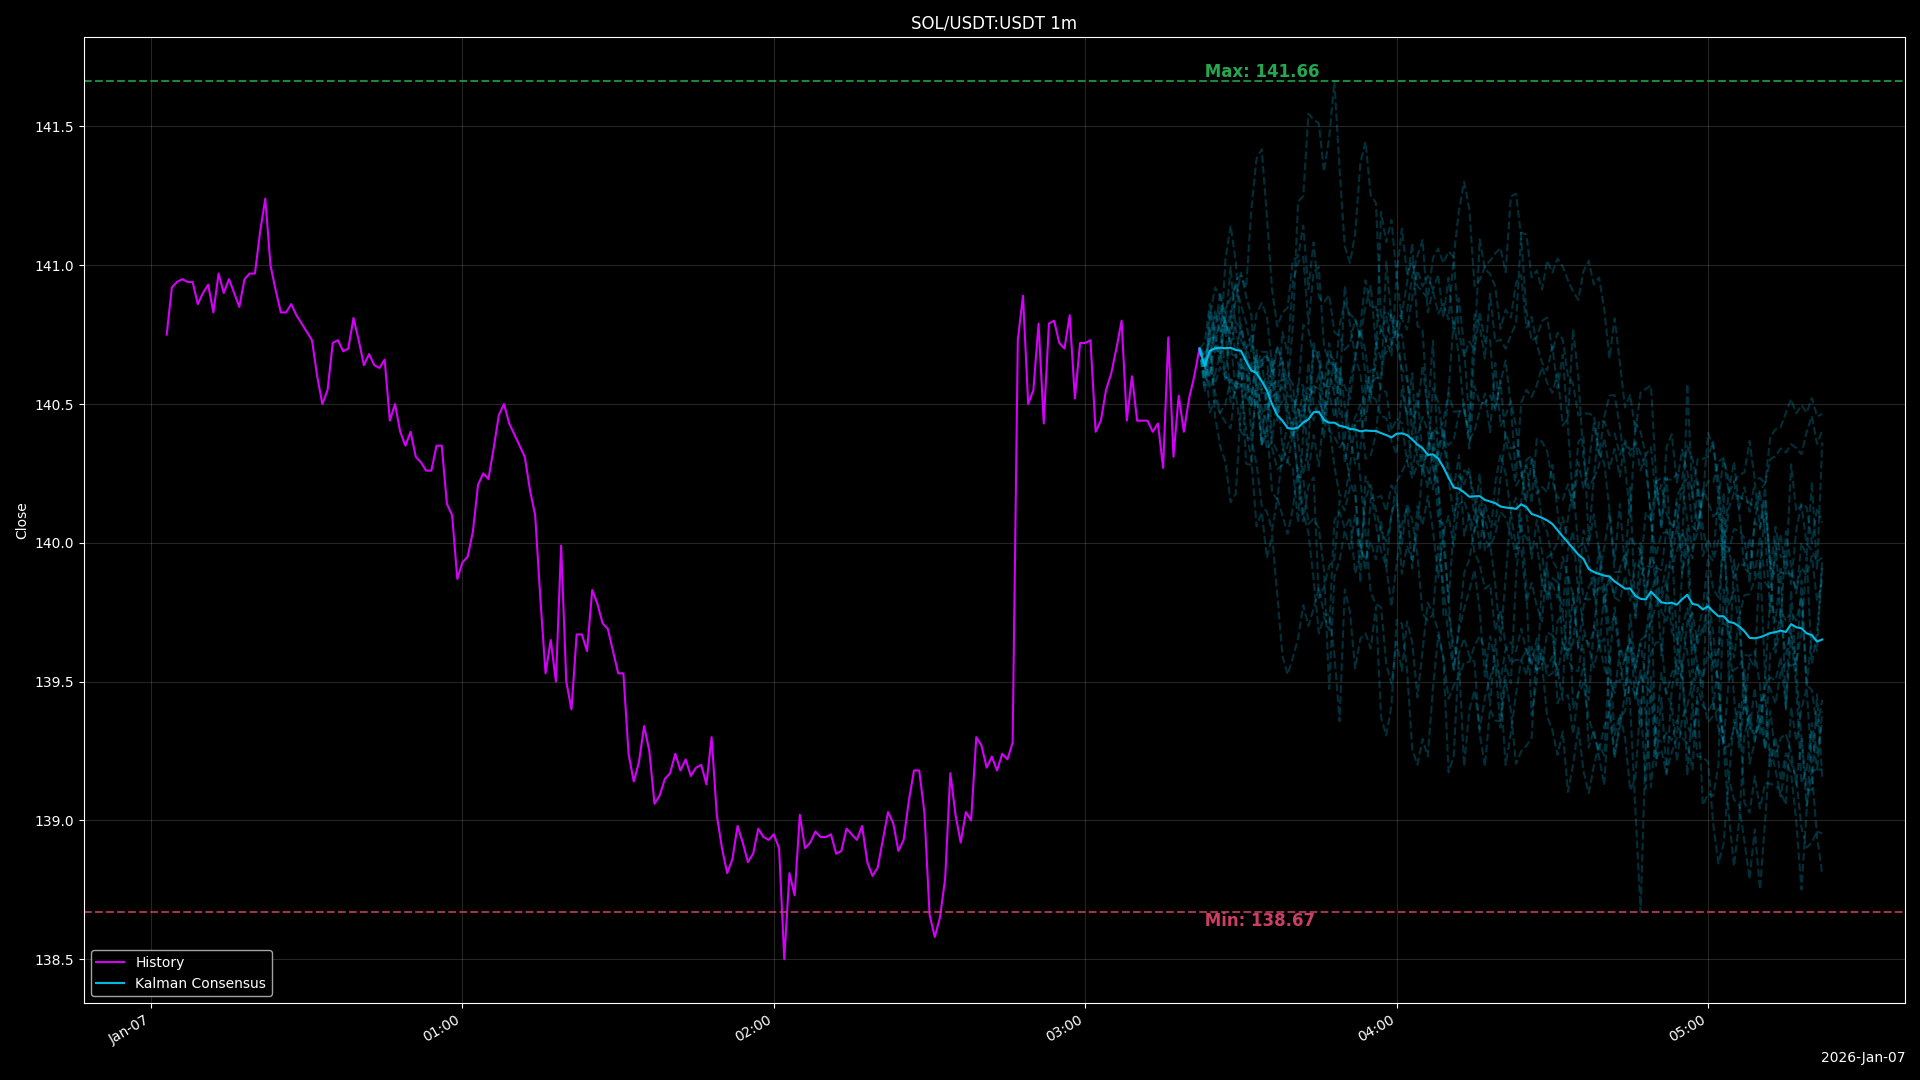
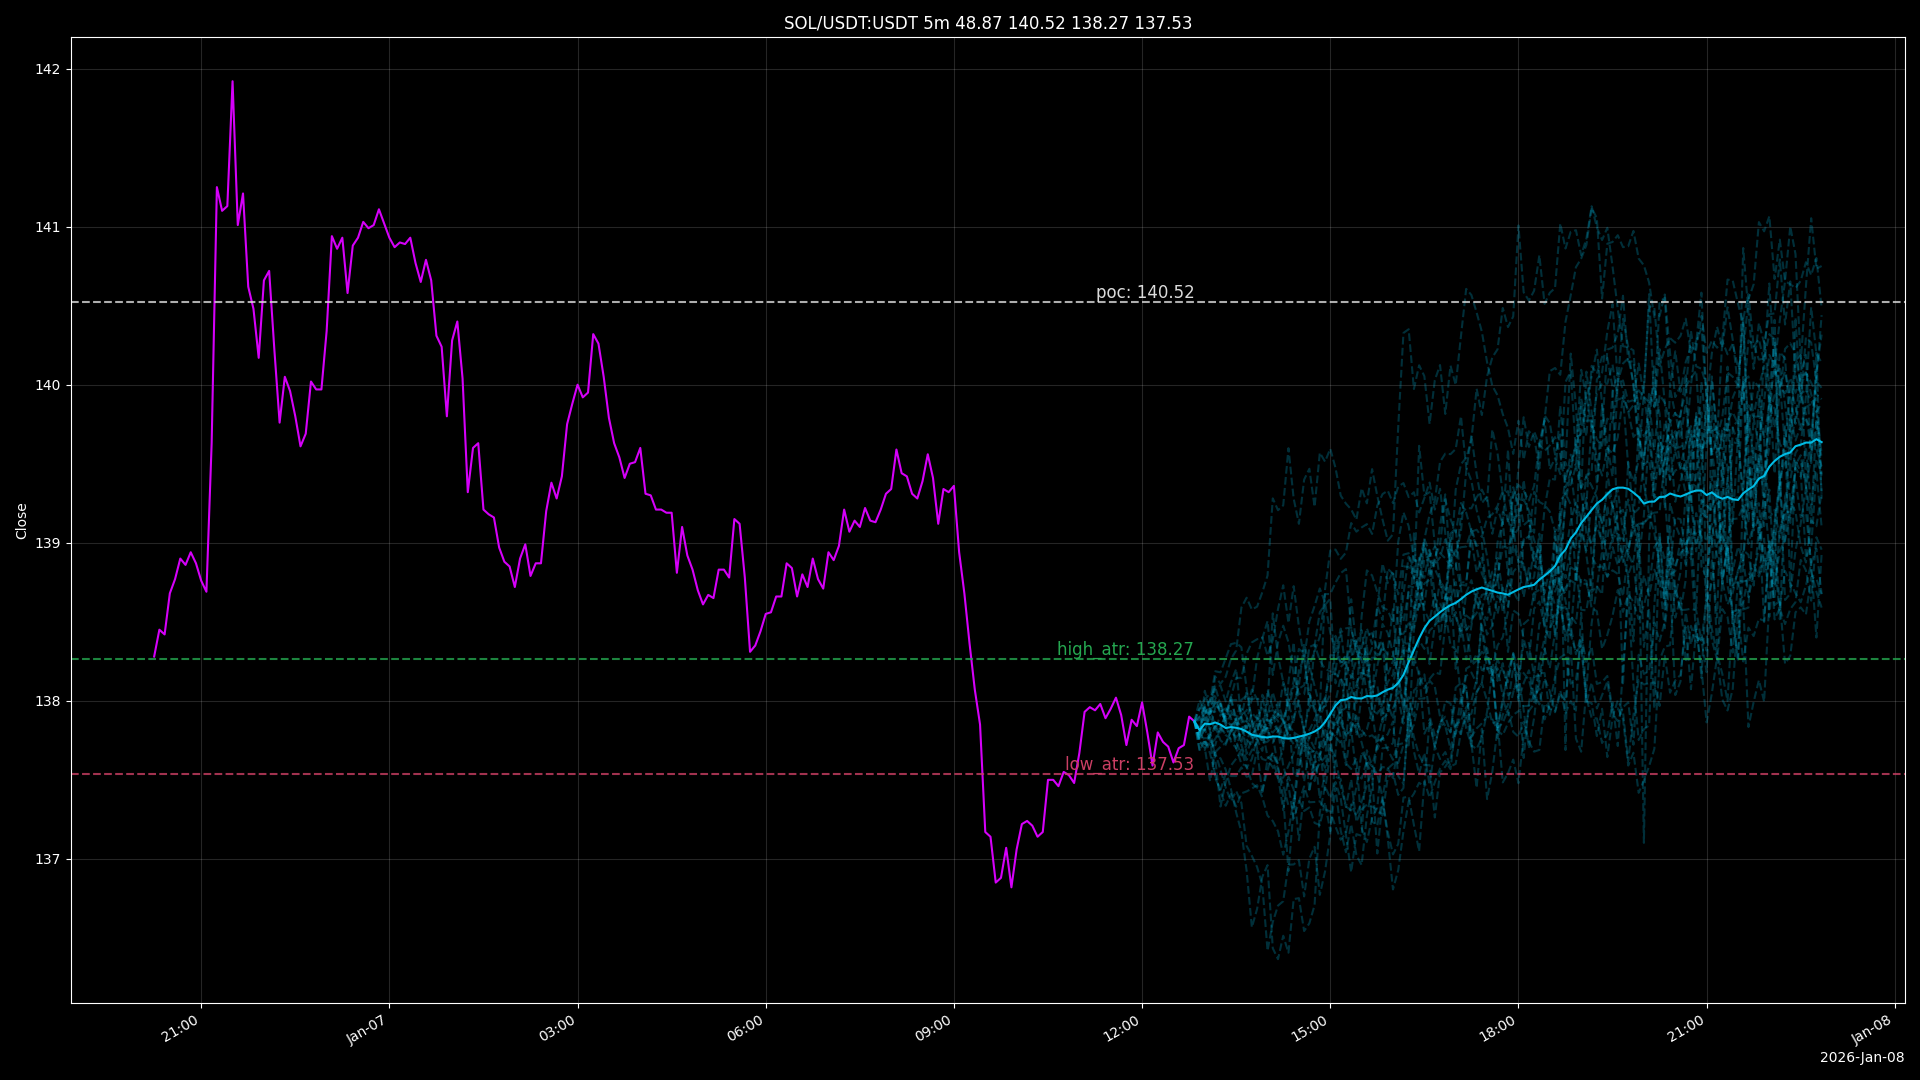
feat：飞书消息推送、ATR、定时。

diff --git a/main.py b/main.py
@@ -1,18 +1,38 @@
 import sys
 import json
+import time
+import aiohttp
 import asyncio
 import logging
 import numpy as np
 import pandas as pd
+import pandas_ta as ta
 import ccxt.async_support as ccxt
 import matplotlib.pyplot as plt
 import matplotlib.dates as mdates
+from datetime import datetime, timedelta
 from model import Kronos, KronosTokenizer, KronosPredictor
 
 logging.basicConfig(
     level=logging.INFO, format="%(asctime)s - %(levelname)s - %(message)s"
 )
 logger = logging.getLogger(__name__)
+
+
+class Messenger:
+    @staticmethod
+    async def send_feishu(msg, feishu_url):
+        logger.info(msg)
+        if len(feishu_url) == 0:
+            return
+        payload = {"msg_type": "text", "content": {"text": msg}}
+        try:
+            async with aiohttp.ClientSession() as session:
+                async with session.post(feishu_url, json=payload, timeout=5) as resp:
+                    if resp.status != 200:
+                        logger.error(f"send_feishu: {resp.status}")
+        except Exception as e:
+            logger.error(f"send_feishu: {e}")
 
 
 class KalmanFilter:
@@ -90,7 +110,16 @@ class Bot:
         ts_index = pd.date_range(start=start_ts, periods=count + 1, freq=freq)[1:]
         return pd.Series(ts_index)
 
-    def plot_prediction(self, history_df, pred_df_list, kalman_series):
+    async def plot_prediction(
+        self,
+        history_df,
+        pred_df_list,
+        kalman_series,
+        angle,
+        poc_price,
+        high_atr,
+        low_atr,
+    ):
         width_px, height_px = 1920, 1080
         pixel_dpi = 100
 
@@ -103,20 +132,15 @@ class Bot:
         ax.plot(
             history_df["timestamp"],
             history_df["close"],
-            label="History",
             color="#d500f9",
         )
 
         last_history_ts = history_df["timestamp"].iloc[-1]
         last_history_close = history_df["close"].iloc[-1]
 
-        all_pred_values = []
-
         for pdf in pred_df_list:
             combined_pred_ts = [last_history_ts] + pdf.index.tolist()
             combined_pred_val = [last_history_close] + pdf["close"].tolist()
-
-            all_pred_values.extend(pdf["close"].tolist())
 
             ax.plot(
                 combined_pred_ts,
@@ -126,43 +150,46 @@ class Bot:
                 alpha=0.25,
             )
 
-        if all_pred_values:
-            pred_max = np.max(all_pred_values)
-            pred_min = np.min(all_pred_values)
+        kf_ts = [last_history_ts] + pred_df_list[0].index.tolist()
+        kf_val = [last_history_close] + kalman_series.tolist()
+        ax.plot(
+            kf_ts,
+            kf_val,
+            color="#00bce5",
+        )
 
-            ax.axhline(y=pred_max, color="#25a750", linestyle="--", alpha=0.8)
-            ax.text(
-                last_history_ts,
-                pred_max,
-                f" Max: {pred_max:.2f}",
-                color="#25a750",
-                va="bottom",
-                ha="left",
-                fontsize=12,
-                fontweight="bold",
-            )
+        ax.axhline(y=poc_price, color="#DBDBDB", linestyle="--", alpha=0.8)
+        ax.text(
+            last_history_ts,
+            poc_price,
+            f"poc: {poc_price:.2f}",
+            color="#DBDBDB",
+            va="bottom",
+            ha="right",
+            fontsize=12,
+        )
 
-            ax.axhline(y=pred_min, color="#ca3f64", linestyle="--", alpha=0.8)
-            ax.text(
-                last_history_ts,
-                pred_min,
-                f" Min: {pred_min:.2f}",
-                color="#ca3f64",
-                va="top",
-                ha="left",
-                fontsize=12,
-                fontweight="bold",
-            )
+        ax.axhline(y=high_atr, color="#25a750", linestyle="--", alpha=0.8)
+        ax.text(
+            last_history_ts,
+            high_atr,
+            f"high_atr: {high_atr:.2f}",
+            color="#25a750",
+            va="bottom",
+            ha="right",
+            fontsize=12,
+        )
 
-        if kalman_series is not None:
-            kf_ts = [last_history_ts] + pred_df_list[0].index.tolist()
-            kf_val = [last_history_close] + kalman_series.tolist()
-            ax.plot(
-                kf_ts,
-                kf_val,
-                label="Kalman Consensus",
-                color="#00bce5",
-            )
+        ax.axhline(y=low_atr, color="#ca3f64", linestyle="--", alpha=0.8)
+        ax.text(
+            last_history_ts,
+            low_atr,
+            f"low_atr: {low_atr:.2f}",
+            color="#ca3f64",
+            va="bottom",
+            ha="right",
+            fontsize=12,
+        )
 
         locator = mdates.AutoDateLocator()
         ax.xaxis.set_major_locator(locator)
@@ -172,14 +199,17 @@ class Bot:
 
         fig.autofmt_xdate()
 
+        msg = f"{self.bot['symbol']} {self.bot['timeframe']} {angle:.2f} {poc_price:.2f} {high_atr:.2f} {low_atr:.2f}"
+
         ax.set_ylabel("Close")
-        ax.set_title(f"{self.bot['symbol']} {self.bot['timeframe']}")
-        ax.legend()
+        ax.set_title(msg)
         ax.grid(True, alpha=0.15)
 
         plt.tight_layout()
         plt.savefig("prediction.png", dpi=pixel_dpi)
         plt.close()
+
+        await Messenger.send_feishu(msg, self.bot["feishuUrl"])
 
     def apply_kalman_ensemble(self, pred_df_list, initial_price):
         data_matrix = np.zeros((len(pred_df_list[0]), len(pred_df_list)))
@@ -208,60 +238,113 @@ class Bot:
 
         return pd.Series(filtered_results)
 
+    def apply_linear_regression(self, kalman_series):
+        try:
+            y = np.array(kalman_series)
+            y_min = np.min(y)
+            y_max = np.max(y)
+            y_norm = (y - y_min) / (y_max - y_min)
+
+            x = np.arange(len(kalman_series))
+            x_norm = x / len(x)
+
+            slope, _ = np.polyfit(x_norm, y_norm, 1)
+            return np.degrees(np.arctan(slope))
+        except Exception as e:
+            logger.error(f"apply_linear_regression: {e}")
+            return 0.0
+
+    def apply_vp(self, df):
+        try:
+            vp = ta.vp(close=df["close"], volume=df["volume"], width=24)
+            return vp.loc[vp["total_volume"].idxmax()]["mean_close"]
+        except Exception as e:
+            logger.error(f"apply_vp: {e}")
+            return 0.0
+
+    def apply_atr(self, df):
+        try:
+            atr = ta.atr(df["high"], df["low"], df["close"]).iloc[-2]
+            price = df.iloc[-2]["close"]
+            atr_multiplier = self.bot["atrMultiplier"]
+            return price + atr_multiplier * atr, price - atr_multiplier * atr
+        except Exception as e:
+            logger.error(f"apply_atr: {e}")
+            return 0.0, 0.0
+
     async def loop(self):
         self.init()
         while True:
-            ohlcv = await self.fetch_ohlcv()
-            df = pd.DataFrame(
-                ohlcv, columns=["timestamp", "open", "high", "low", "close", "volume"]
+            now = datetime.now()
+            minutes_to_next = 5 - (now.minute % 5)
+            next_run = now.replace(second=0, microsecond=0) + timedelta(
+                minutes=minutes_to_next
             )
-            df = df.drop_duplicates(subset=["timestamp"])
-            df = df.sort_values("timestamp").reset_index(drop=True)
-            df["timestamp"] = pd.to_datetime(df["timestamp"], unit="ms")
+            wait_seconds = (next_run - now).total_seconds()
 
-            lookback = 400
-            pred_len = 120
+            try:
+                ohlcv = await self.fetch_ohlcv()
+                df = pd.DataFrame(
+                    ohlcv,
+                    columns=["timestamp", "open", "high", "low", "close", "volume"],
+                )
+                df = df.drop_duplicates(subset=["timestamp"])
+                df = df.sort_values("timestamp").reset_index(drop=True)
+                df["timestamp"] = pd.to_datetime(df["timestamp"], unit="ms")
 
-            x_df = df.tail(lookback)[["open", "high", "low", "close", "volume"]]
-            x_timestamp = df.tail(lookback)["timestamp"]
+                lookback = 400
+                pred_len = 120
 
-            last_ts = x_timestamp.iloc[-1]
-            last_close = x_df["close"].iloc[-1]
-            y_timestamp = self.generate_future_timestamps(
-                last_ts, pred_len, self.bot["timeframe"]
-            )
+                x_df = df.tail(lookback)[["open", "high", "low", "close", "volume"]]
+                x_timestamp = df.tail(lookback)["timestamp"]
 
-            df_list = []
-            x_timestamp_list = []
-            y_timestamp_list = []
+                last_ts = x_timestamp.iloc[-1]
+                last_close = x_df["close"].iloc[-1]
+                y_timestamp = self.generate_future_timestamps(
+                    last_ts, pred_len, self.bot["timeframe"]
+                )
 
-            for _ in range(self.bot["batch"]):
-                df_list.append(x_df)
-                x_timestamp_list.append(x_timestamp)
-                y_timestamp_list.append(y_timestamp)
+                df_list = []
+                x_timestamp_list = []
+                y_timestamp_list = []
 
-            pred_df_list = self.predictor.predict_batch(
-                df_list=df_list,
-                x_timestamp_list=x_timestamp_list,
-                y_timestamp_list=y_timestamp_list,
-                pred_len=pred_len,
-                T=self.bot["temperature"],
-                top_p=self.bot["topP"],
-                sample_count=self.bot["sampleCount"],
-                verbose=True,
-            )
+                for _ in range(self.bot["batch"]):
+                    df_list.append(x_df)
+                    x_timestamp_list.append(x_timestamp)
+                    y_timestamp_list.append(y_timestamp)
 
-            for pdf in pred_df_list:
-                pdf.index = y_timestamp
+                pred_df_list = self.predictor.predict_batch(
+                    df_list=df_list,
+                    x_timestamp_list=x_timestamp_list,
+                    y_timestamp_list=y_timestamp_list,
+                    pred_len=pred_len,
+                    T=self.bot["temperature"],
+                    top_p=self.bot["topP"],
+                    sample_count=self.bot["sampleCount"],
+                    verbose=True,
+                )
 
-            kalman_series = self.apply_kalman_ensemble(pred_df_list, last_close)
+                for pdf in pred_df_list:
+                    pdf.index = y_timestamp
 
-            self.plot_prediction(df, pred_df_list, kalman_series)
-            return
+                kalman_series = self.apply_kalman_ensemble(pred_df_list, last_close)
+
+                angle = self.apply_linear_regression(kalman_series)
+
+                poc_price = self.apply_vp(df)
+                high_atr, low_atr = self.apply_atr(df)
+
+                await self.plot_prediction(
+                    df, pred_df_list, kalman_series, angle, poc_price, high_atr, low_atr
+                )
+
+                await asyncio.sleep(wait_seconds)
+            except Exception as e:
+                logger.error(f"loop: {e}")
 
 
 async def main():
-    config_file = ".env" if "--production" in sys.argv else ".env.local"
+    config_file = ".config.json" if "--production" in sys.argv else ".config.local.json"
     try:
         with open(config_file, "r") as f:
             config = json.load(f)

diff --git a/README.md b/README.md
@@ -2,7 +2,7 @@
 基于 [Kronos](https://github.com/shiyu-coder/Kronos) 的量化交易程序。
 
 ## 配置
-将配置文件模板 `copy.env.local` 重命名为 `.env.local` （模拟交易）和 `.env`（实盘交易）。
+将配置文件模板 `copy.config.json` 重命名为 `.config.local.json` （模拟交易）和 `.config.json`（实盘交易）。
 
 ```json
 {
@@ -23,7 +23,7 @@
         // 市场。
         "symbol": "DOGE/USDT:USDT",
         // 周期。
-        "timeframe": "1h",
+        "timeframe": "1m",
         // 推荐 1.2-1.5。
         "temperature": 1.2,
         // 推荐 0.95-1.0。
@@ -32,10 +32,12 @@
         "sampleCount": 2,
         // 批量预测的数量，越多越好。
         // 经测试，GTX 1050 Ti 4G 显存最大可支持 15，RTX 4070 8G 显存最大可支持 22。
-        "batch": 22
-    },
-    // 发送通知到飞书群聊机器人的 Webhook 地址。
-    "feishuUrl": ""
+        "batch": 22,
+        // 发送通知到飞书群聊机器人的 Webhook 地址。
+        "feishuUrl": "",
+        // ATR 倍率。
+        "atrMultiplier": 1.5
+    }
 }
 ```
 
